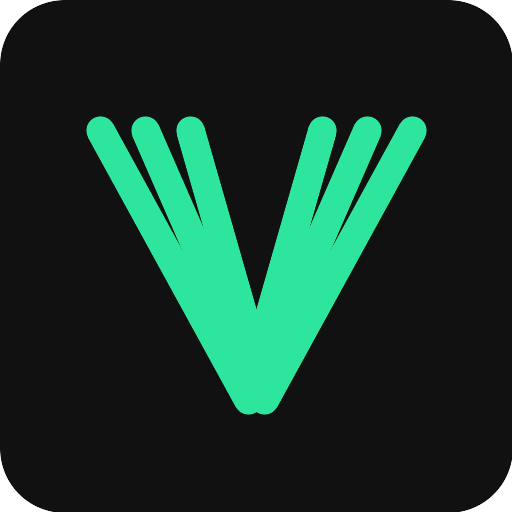
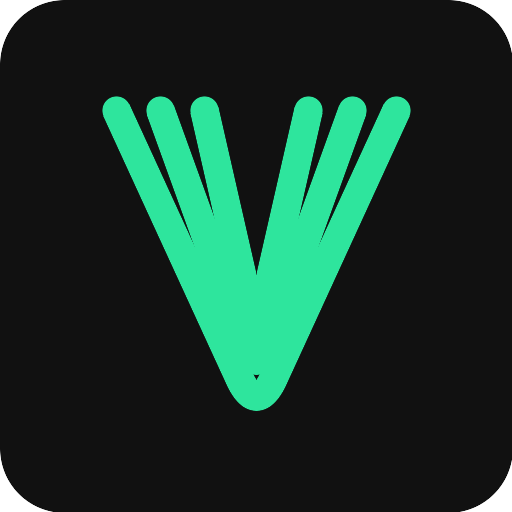
fix: triple-stroke V with curved bottoms matching reference

diff --git a/frontend/src/components/VaadaLogo.tsx b/frontend/src/components/VaadaLogo.tsx
@@ -10,13 +10,13 @@ export function VaadaLogo({ size = 28, className = '' }: { size?: number; classN
       className={className}
     >
       <rect width="512" height="512" rx="64" fill="#111111" />
-      {/* Triple-stroke V - tight parallel lines converging */}
-      <line x1="100" y1="130" x2="248" y2="400" stroke="#2EE59D" strokeWidth="28" strokeLinecap="round" />
-      <line x1="412" y1="130" x2="264" y2="400" stroke="#2EE59D" strokeWidth="28" strokeLinecap="round" />
-      <line x1="145" y1="130" x2="252" y2="375" stroke="#2EE59D" strokeWidth="28" strokeLinecap="round" />
-      <line x1="367" y1="130" x2="260" y2="375" stroke="#2EE59D" strokeWidth="28" strokeLinecap="round" />
-      <line x1="190" y1="130" x2="253" y2="350" stroke="#2EE59D" strokeWidth="28" strokeLinecap="round" />
-      <line x1="322" y1="130" x2="259" y2="350" stroke="#2EE59D" strokeWidth="28" strokeLinecap="round" />
+      {/* Triple-stroke V: 3 nested hairpin curves */}
+      <path d="M 116,110 L 240,380 Q 256,412 272,380 L 396,110"
+        fill="none" stroke="#2EE59D" strokeWidth="28" strokeLinecap="round" />
+      <path d="M 160,110 L 246,348 Q 256,372 266,348 L 352,110"
+        fill="none" stroke="#2EE59D" strokeWidth="28" strokeLinecap="round" />
+      <path d="M 204,110 L 251,316 Q 256,332 261,316 L 308,110"
+        fill="none" stroke="#2EE59D" strokeWidth="28" strokeLinecap="round" />
     </svg>
   )
 }
